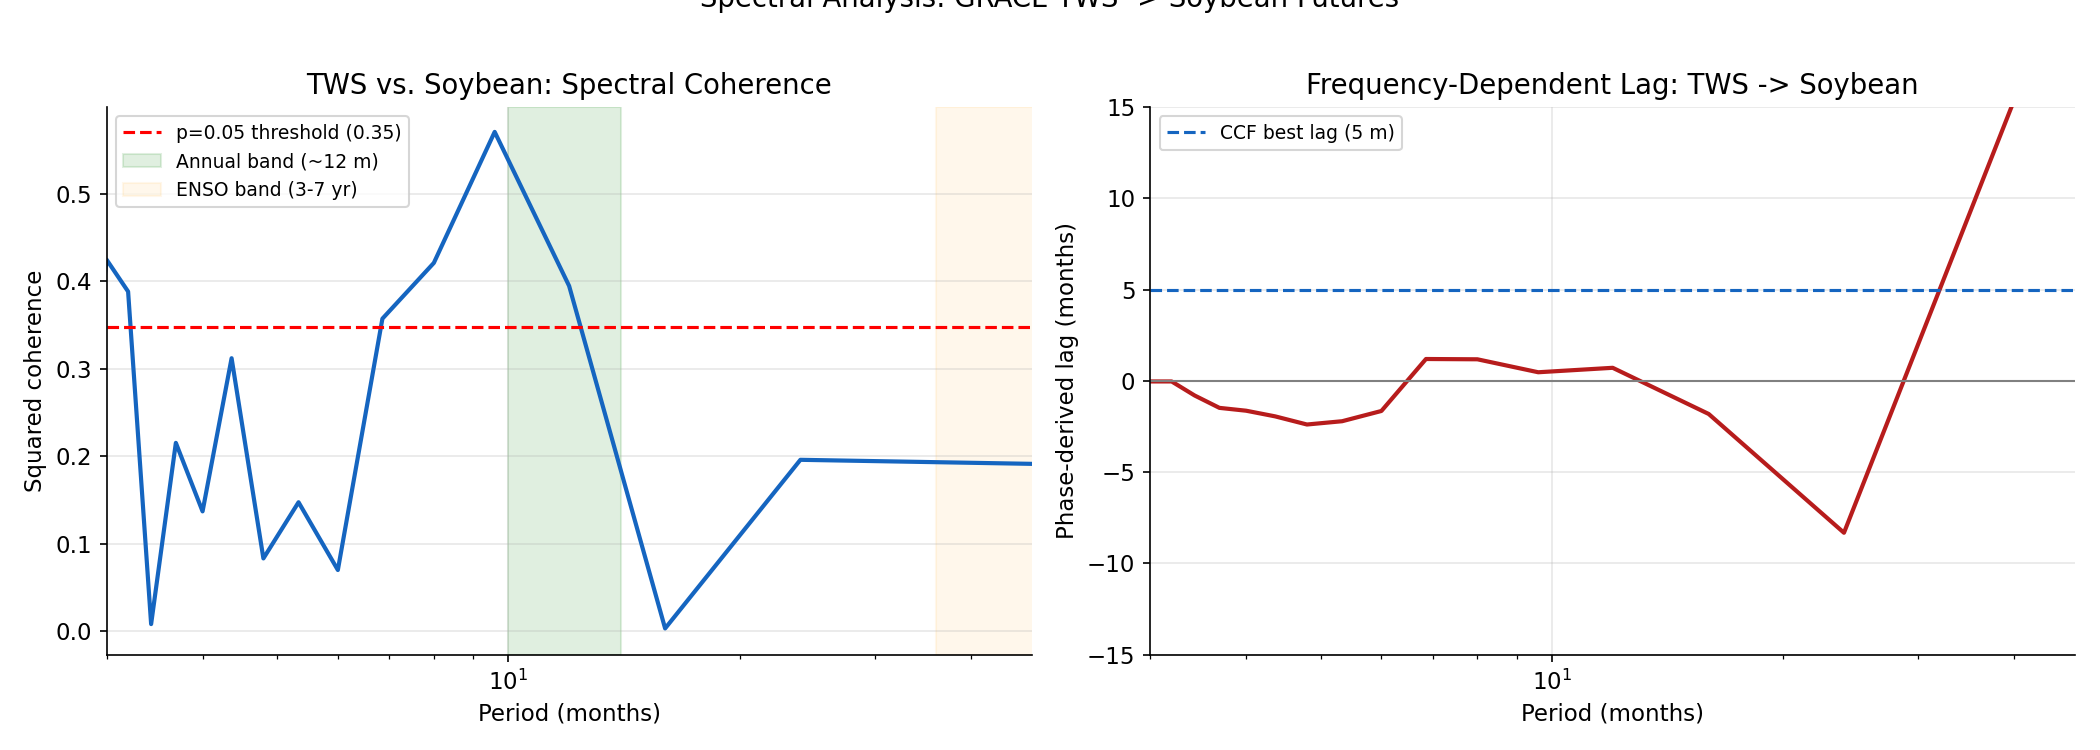
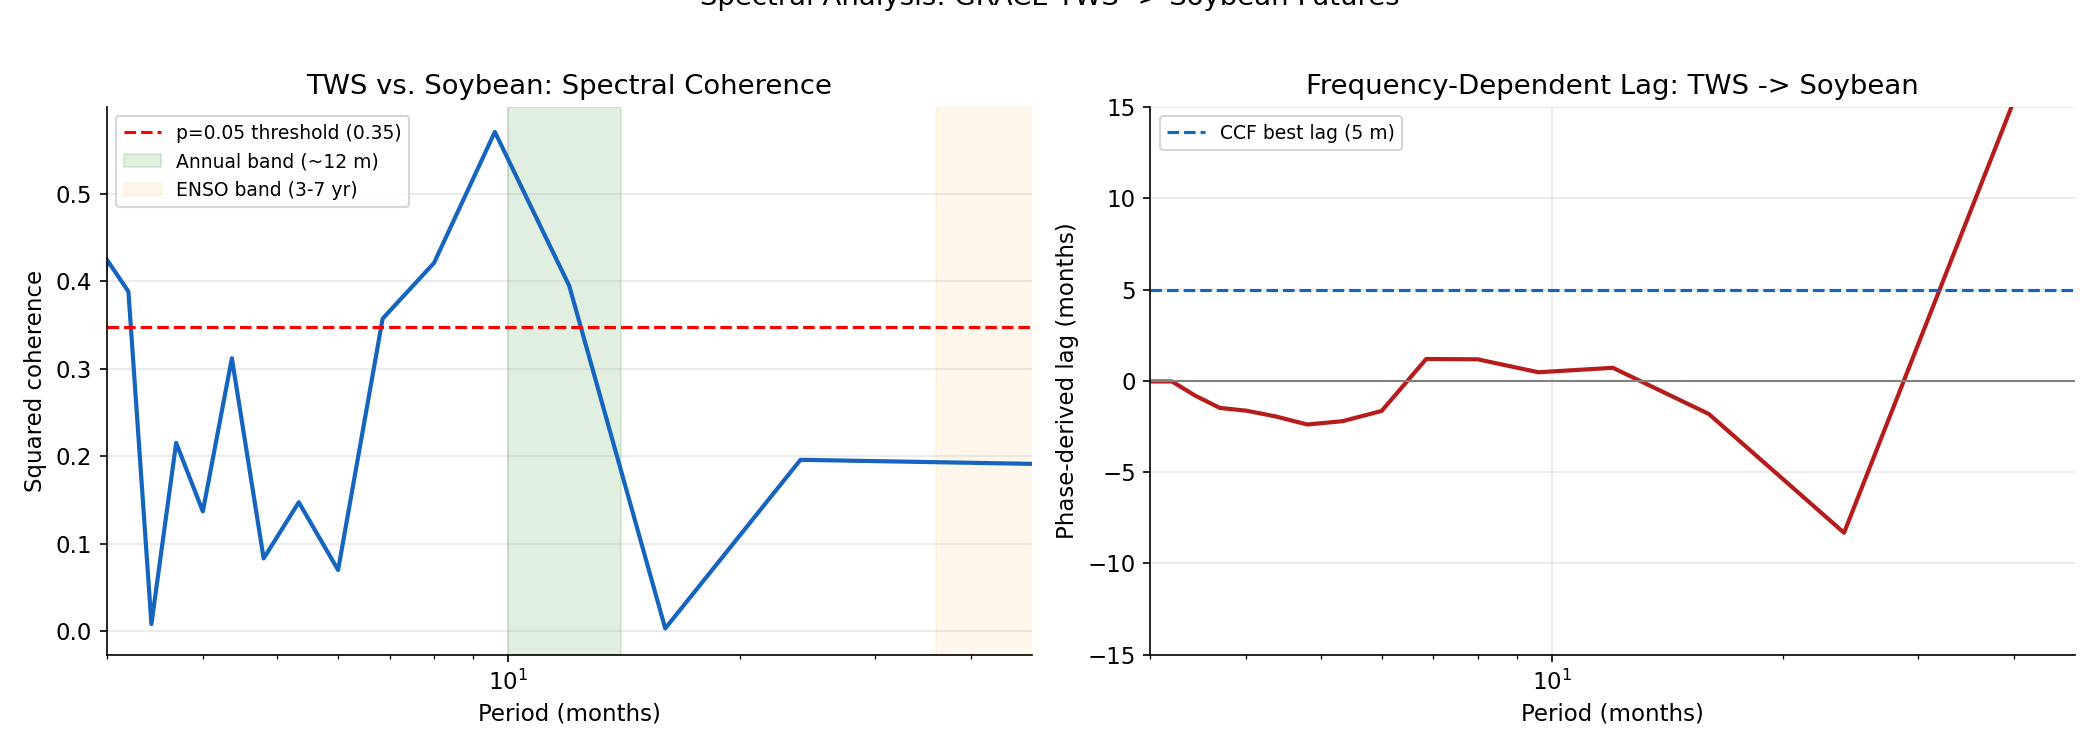
boh

diff --git a/report/report.tex b/report/report.tex
@@ -86,6 +86,9 @@
 ]{biblatex}
 \addbibresource{references.bib}
 
+% --- Float control ----------------------------------------------------
+\usepackage{placeins}
+
 % --- Utility ----------------------------------------------------------
 \usepackage{enumitem}
 \setlist[itemize]{leftmargin=1.2em, itemsep=1pt, topsep=2pt}
@@ -250,11 +253,13 @@ agricultural drought across the whole region.
 \end{itemize}
 
 % ============================================================
+\FloatBarrier
 \section{Analysis Workflow}
 \label{sec:workflow}
 
 The full analysis is contained in a single notebook,
-\texttt{main.ipynb}, which can be run from top to bottom. The steps
+\href{https://colab.research.google.com/github/alpersam/Space-Data-Project/blob/main/main.ipynb#scrollTo=ec4d111c}{\texttt{main.ipynb}},
+which can be run from top to bottom. The steps
 are as follows:
 
 \begin{enumerate}
@@ -283,6 +288,7 @@ are as follows:
 \end{enumerate}
 
 % ============================================================
+\FloatBarrier
 \section{Results}
 \label{sec:results}
 
@@ -301,8 +307,10 @@ four drought episodes we focused on.
   \includegraphics[width=\columnwidth]{fig2_eof_pc1.png}
   \caption{Left: spatial loading of EOF1 over the study region. Right:
     the PC1 time series used as the GRACE drought index. EOF1 explains
-    58.5\% of total TWS variance. Shaded areas mark the four major
-    drought episodes.}
+    58.5\% of total TWS variance. Shaded areas mark months where the
+    PC1 z-score falls below $-1$, a threshold chosen as a reasonable
+    indicator of drought conditions, corresponding to roughly one
+    standard deviation below the long-term mean.}
   \label{fig:eof}
 \end{figure}
 
@@ -448,13 +456,17 @@ with a much smaller maximum drawdown of $-24\%$ versus $-63\%$.
 
 \begin{figure*}[t]
   \centering
-  \includegraphics[width=\textwidth]{6cf0f1e6613d3efd9447e7f8136de5bd9c453c19.png}
-  \caption{Three-step causal chain: scatter plots for the
-    TWS to NDVI path (lag 1-2 months), the NDVI to price path
-    (lag 3-4 months), and the direct TWS to price path (lag 5
-    months). The Sobel test confirms that the direct path is the
-    dominant one and that NDVI does not act as a significant
-    intermediary at monthly time resolution.}
+  \includegraphics[width=\textwidth]{fig5_causal_chain.png}
+  \caption{Bootstrap cross-correlation at each step of the proposed
+    causal chain. \textit{Left}: GRACE TWS $\to$ MODIS cropland NDVI
+    (best lag 7 months, $r = -0.084$, not significant). \textit{Centre}:
+    MODIS NDVI $\to$ soybean log-return (best lag 3 months,
+    $r = -0.134$, not significant). \textit{Right}: direct
+    GRACE TWS $\to$ soybean log-return (best lag 5 months,
+    $r = -0.277$, $p < 0.001$). Gray bands are 95\% bootstrap
+    confidence intervals; dashed verticals mark the best lag.
+    Only the direct path (right panel) is statistically significant,
+    consistent with the Sobel mediation result ($p = 0.908$).}
   \label{fig:causal}
 \end{figure*}
 
@@ -470,6 +482,7 @@ with a much smaller maximum drawdown of $-24\%$ versus $-63\%$.
 \end{figure}
 
 % ============================================================
+\FloatBarrier
 \section{Interpretation and Discussion}
 \label{sec:discussion}
 
@@ -553,6 +566,7 @@ interesting as a standalone indicator, rather than just a proxy
 for climate indices that are already well monitored.
 
 % ============================================================
+\FloatBarrier
 \section*{Conclusion}
 
 GRACE and GRACE-FO water storage anomalies over Brazil's soybean